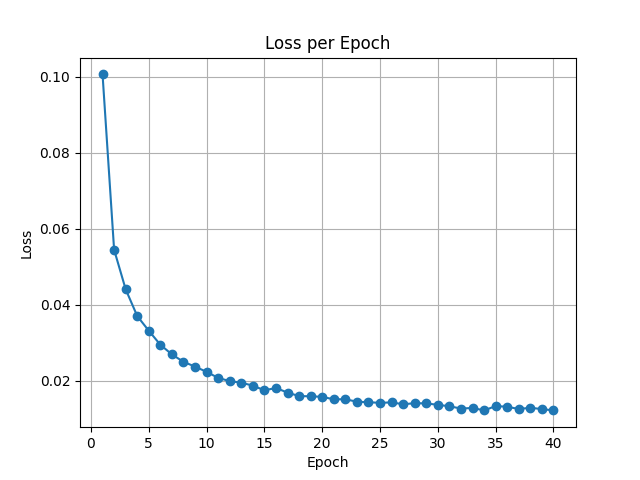
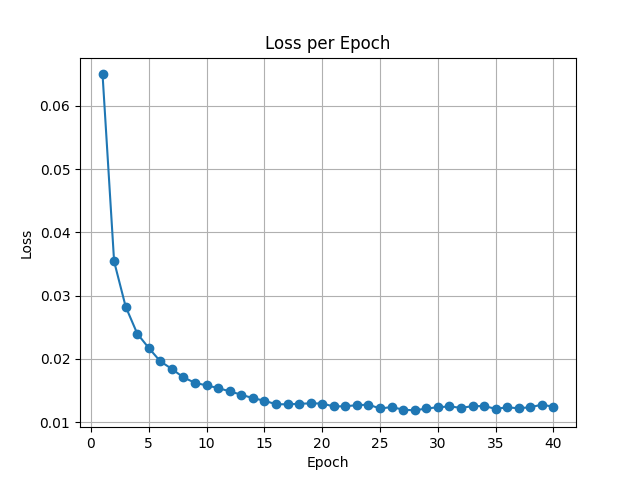
added new testing set

diff --git a/object_detection_train.py b/object_detection_train.py
@@ -15,8 +15,8 @@ import matplotlib.pyplot as plt
 transform = transforms.Compose([transforms.ToTensor()])
 #train_dataset = CocoDetection(root="path_to_images", annFile="path_to_annotations", transform=transform)
 classes = 2
-dir_path = "data/archive/ugv_dataset_v5/train/images"
-ann_path = "data/archive/ugv_dataset_v5/train/labels" # contains type and contains other info
+dir_path = "data/archive/ugv_dataset_backpacks_v5/train/images"
+ann_path = "data/archive/ugv_dataset_backpacks_v5/train/labels" # contains type and contains other info
 
 width = 400
 height = 400
@@ -74,7 +74,7 @@ for epoch in range(num_epochs):
     print(f"Epoch [{epoch+1}/{num_epochs}], Loss: {average_loss}")
 
 # Save the model after training
-torch.save(model, 'models/ugvs/fasterrcnn_resnet50_fpn_ugv_v5.pth')
+torch.save(model, 'models/ugvs/fasterrcnn_resnet50_fpn_ugv_backpacks_v5.pth')
 #torch.save(model, 'models/fasterrcnn_resnet50_fpn_ugv_v1.pth')
 
 # Plotting the loss per epoch

diff --git a/tools/tools.py b/tools/tools.py
@@ -199,9 +199,10 @@ if __name__ == '__main__':
     Rename all class labels to txt's from n to class 1, then rename all images with a new prefix, and do the same for the txt's
 
     '''
-    input_dir = "/home/eherrin@ad.ufl.edu/Documents/test4_251_DK_ugv"
-    prefix = "occlusions"
-    replace_first_element_in_files(input_dir, old_value=2, new_value=0)
+    input_dir = "/home/eherrin@ad.ufl.edu/Documents/noisy_drone_testset"
+    prefix = "foggy_noisy"
+    rename_image_txt_pairs(input_dir, prefix)
+    # replace_first_element_in_files(input_dir, old_value=2, new_value=0)
 
 
 
